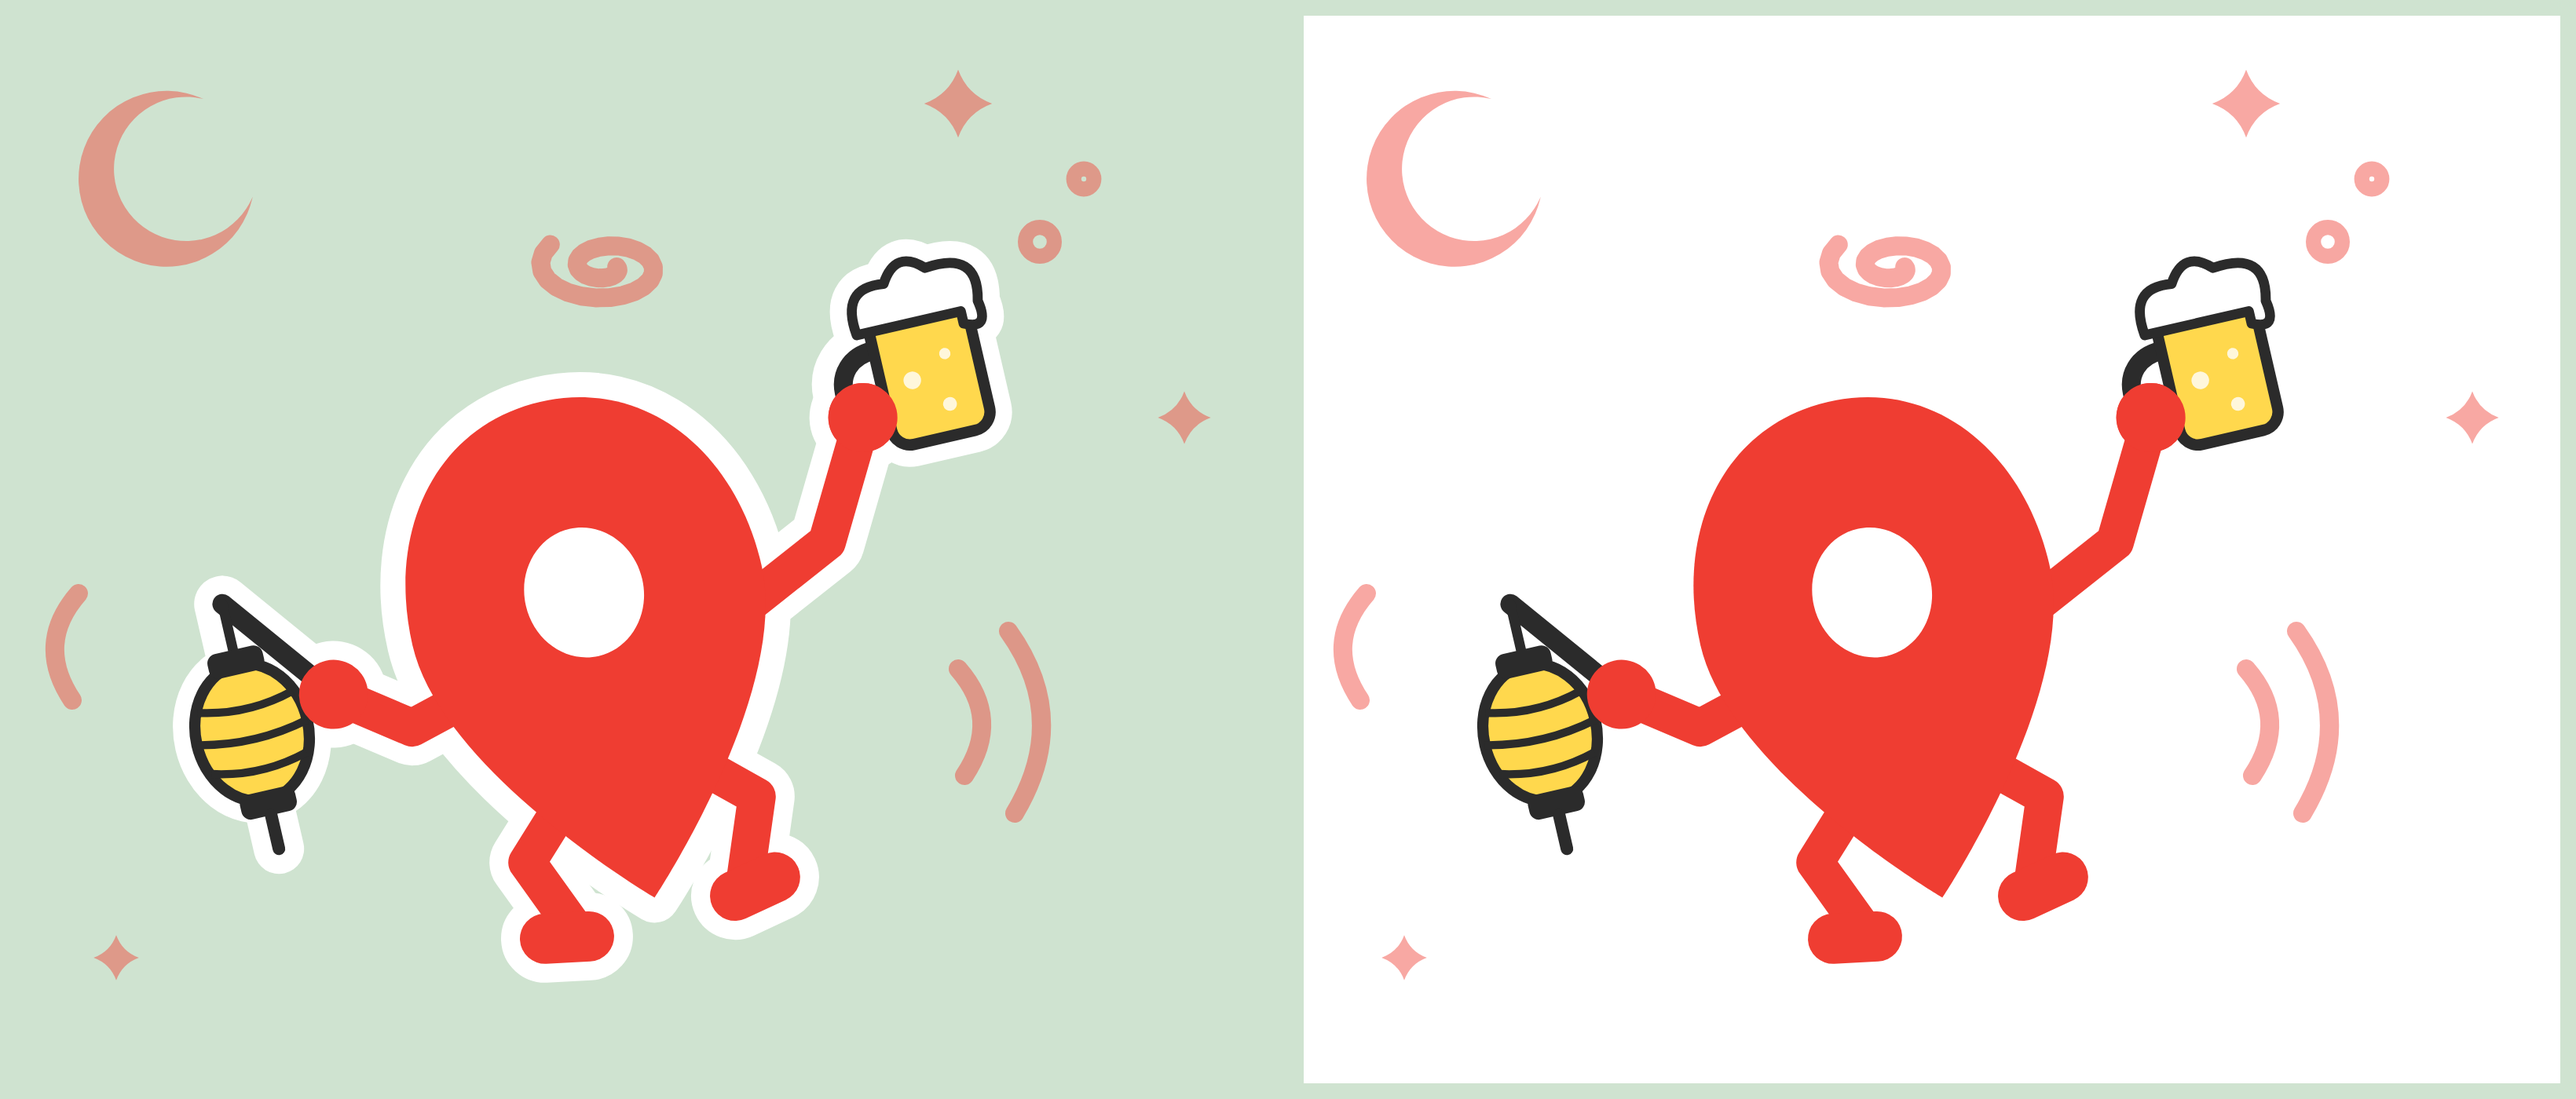
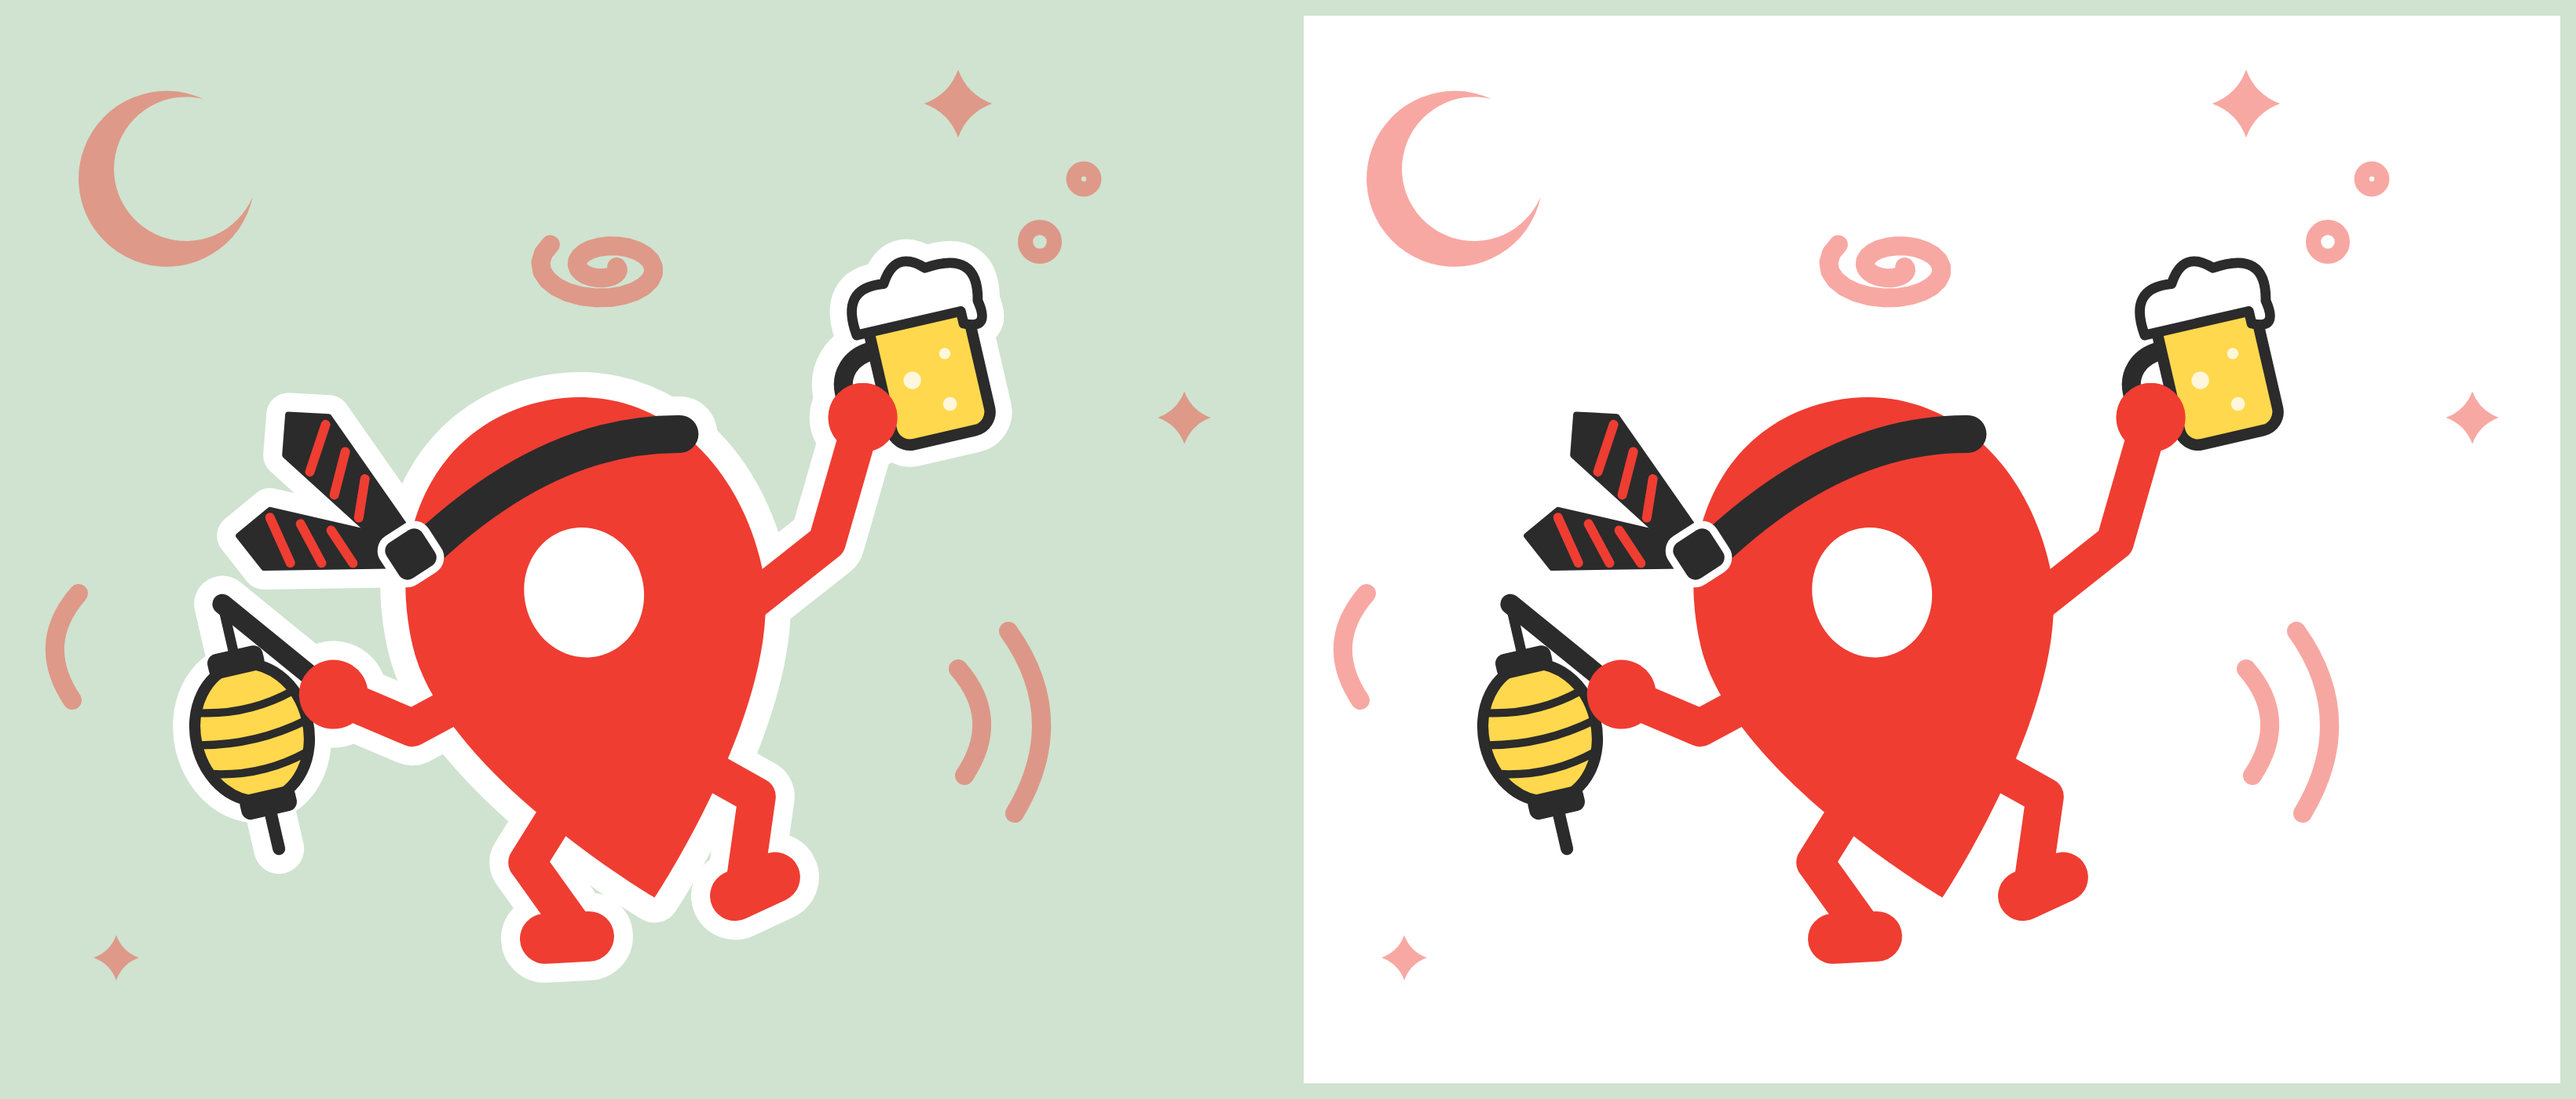
알딸딸 핀 머리에 넥타이 머리띠 추가: 술 취한 직장인 느낌을 더함
Claude-Session: https://claude.ai/code/session_01VwLjVAfcx4wZNEtqXWC9E9

Changed region(s): [[0.0622, 0.3379, 0.2799, 0.5529], [0.5909, 0.3686, 0.7774, 0.5529]]

diff --git a/.claude/skills/pin-character/pin_character.py b/.claude/skills/pin-character/pin_character.py
@@ -299,6 +299,42 @@ def hic_bubbles(bubbles, gid="딸꾹방울"):
 _beer_outline, _beer = beer_mug()
 _lantern_l_outline, _lantern_l = lantern(hand=(-12, 40), tip=(-26, 22), c=(-26, 43))
 
+
+def head_tie(band="M5.5 22 Q30 7 51 12", knot=(5, 21), ends=((-9, -5), (-21, 12)), color="#2B2B2B"):
+    """머리에 질끈 묶은 넥타이(머리띠). 띠는 핀 머리 위, 매듭은 옆, 넥타이 끝 두 개가 휘날린다.
+    (흰 테두리용, 본체) 두 개를 돌려준다. 본체는 prop_front에 넣어 핀 앞에 그린다."""
+    kx, ky = knot
+
+    def piece(ex, ey, w0=1.8, w1=4.6, tip=4.5):
+        dx, dy = ex - kx, ey - ky
+        L = math.hypot(dx, dy)
+        ux, uy = dx / L, dy / L
+        px, py = -uy, ux
+        bx, by = ex - ux * tip, ey - uy * tip          # 뾰족 끝 시작
+        pts = [(kx + px * w0, ky + py * w0), (bx + px * w1, by + py * w1), (ex, ey),
+               (bx - px * w1, by - py * w1), (kx - px * w0, ky - py * w0)]
+        d = "M" + " L".join(f"{x:.2f} {y:.2f}" for x, y in pts) + "Z"
+        st = ""
+        for f in (0.4, 0.58, 0.76):   # 빨간 사선 줄무늬 (핀 색)
+            cx, cy = kx + dx * f, ky + dy * f
+            w = w0 + (w1 - w0) * f - 0.5
+            st += (f'<path d="M{cx + px * w + ux * 2:.2f} {cy + py * w + uy * 2:.2f} '
+                   f'L{cx - px * w - ux * 2:.2f} {cy - py * w - uy * 2:.2f}" stroke="{RED}" stroke-width="1.5" stroke-linecap="round"/>')
+        return d, st
+
+    pieces = [piece(*e) for e in ends]
+    outline = (f'<path d="{band}" stroke="white" stroke-width="12" stroke-linecap="round"/>'
+               + "".join(f'<path d="{d}" fill="white" stroke="white" stroke-width="7" stroke-linejoin="round"/>' for d, _ in pieces)
+               + f'<circle cx="{kx}" cy="{ky}" r="7" fill="white"/>')
+    body = (f'<g id="넥타이 머리띠"><path d="{band}" stroke="{color}" stroke-width="6" stroke-linecap="round"/>'
+            + "".join(f'<path d="{d}" fill="{color}" stroke="{color}" stroke-width="1" stroke-linejoin="round"/>{st}' for d, st in pieces)
+            + f'<rect x="{kx - 4}" y="{ky - 4}" width="8" height="8" rx="2.2" fill="{color}" stroke="white" stroke-width="1.2" '
+              f'transform="rotate(-20 {kx} {ky})"/></g>')
+    return outline, body
+
+
+_tie_outline, _tie = head_tie()
+
 _flag_outline, _flag = checker_flag()
 
 POSES = {
@@ -373,8 +409,8 @@ POSES = {
         limbs=["M51 43 L70 34 L80 16", "M10 45 L-1 48 L-12 40", "M23 62 L12 73 L17 85", "M39 61 L50 71 L45 84"],
         hands=[(80, 16), (-12, 40)],
         shoes=[(8, 82, 15, 8, 10, 15, 86), (39, 81, 15, 8, -12, 46, 85)],
-        prop_outline=_lantern_l_outline + _beer_outline, prop=_lantern_l,
-        prop_front=_beer + f'<circle id="맥주잔 든 손" cx="80" cy="16" r="{HAND_R}" fill="{RED}"/>',
+        prop_outline=_lantern_l_outline + _beer_outline + _tie_outline, prop=_lantern_l,
+        prop_front=_tie + _beer + f'<circle id="맥주잔 든 손" cx="80" cy="16" r="{HAND_R}" fill="{RED}"/>',
         effects=moon_stars((24, 26), 14, [(150, 14, 0.9), (186, 64, 0.7), (16, 150, 0.6)])
                 + dizzy(94, 40, 11)
                 + hic_bubbles([(152, 48, 3.2), (163, 36, 2.3), (170, 26, 1.6)])
